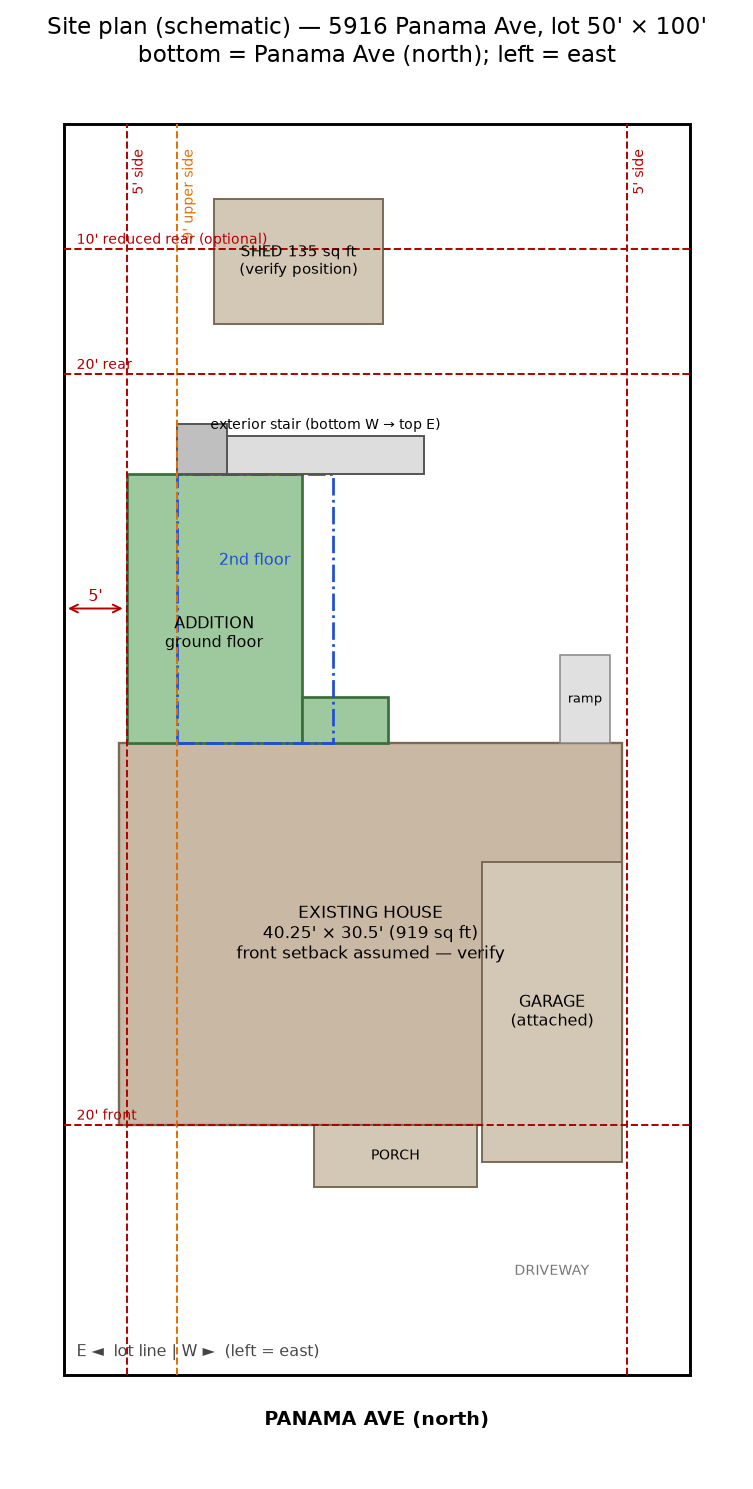
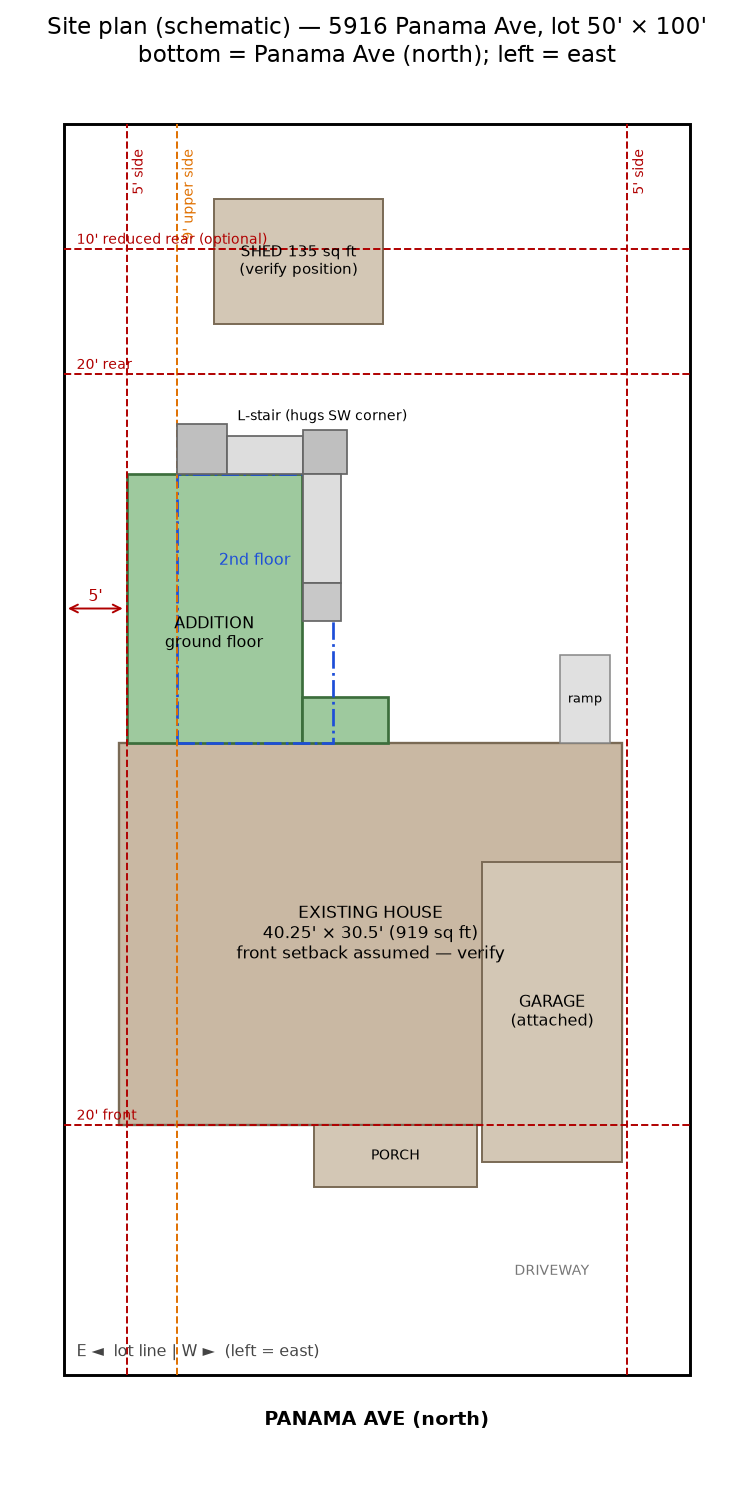
Fold exterior stair into L around SW corner to clear the yard

Changed region(s): [[0.2749, 0.278, 0.5803, 0.4325]]

diff --git a/design/generate_plans.py b/design/generate_plans.py
@@ -130,6 +130,41 @@ def base_axes(title):
     return fig, ax
 
 
+def stair_geom():
+    """L-stair geometry in plan-local inches (x west of the addition's east
+    face, y south of the house rear wall). Rectangles are (x0, y0, w, h)."""
+    st = P["stair"]
+    D = P["first_floor"]["main_block_ext_depth"]
+    off = P["second_floor"]["east_face_offset_from_ground_east_face"]
+    risers = math.ceil(st["total_rise"] / st["riser_max"])
+    riser = st["total_rise"] / risers
+    up_r = st["upper_flight_risers"]
+    lo_r = risers - up_r
+    w, land, cland, tread = st["width"], st["top_landing"], st["corner_landing"], st["tread_run"]
+
+    up_x0 = off + land
+    up_len = (up_r - 1) * tread
+    lo_len = (lo_r - 1) * tread
+    cx = up_x0 + up_len                      # corner landing east face
+    return {
+        "risers": risers, "riser": riser, "up_r": up_r, "lo_r": lo_r,
+        "tread": tread, "width": w,
+        "top_landing": (off, D, land, land),
+        "upper": (up_x0, D, up_len, w),
+        "corner": (cx, D, cland, cland),
+        "lower": (cx, D - lo_len, w, lo_len),
+        "pad": (cx, D - lo_len - 36, w, 36),
+        "corner_height": st["total_rise"] - up_r * riser,
+    }
+
+
+def draw_stair_rect(ax, rect, color="#e8e8e8", scale=1.0, dx=0.0, dy=0.0):
+    x0, y0, w, h = [v * scale for v in rect]
+    ax.add_patch(Rectangle((x0 + dx, y0 + dy), w, h, facecolor=color,
+                           edgecolor="#666666", lw=0.9, zorder=2))
+    return x0 + dx, y0 + dy, w, h
+
+
 # ----------------------------------------------------------------------------
 # First floor
 # ----------------------------------------------------------------------------
@@ -345,29 +380,39 @@ def second_floor():
     fW = f["main_block_ext_width"]
     dim_h(ax, fW, x0 + W, -16, label=f"{ft_in(x0 + W - fW)} cantilever")
 
-    # exterior stair + landing along south wall
-    land = st["top_landing"]
-    treads = math.ceil(st["total_rise"] / st["riser_max"]) - 1
-    run = treads * st["tread_run"]
-    ly = D
-    ax.add_patch(Rectangle((x0, ly), land, land, facecolor="#d9d9d9",
-                           edgecolor="#666666", lw=1.0, zorder=2))
-    ax.text(x0 + land / 2, ly + land / 2, "LANDING\n4'×4'", ha="center",
-            va="center", fontsize=7)
-    sx = x0 + land
-    ax.add_patch(Rectangle((sx, ly), run, st["width"], facecolor="#e8e8e8",
-                           edgecolor="#666666", lw=1.0, zorder=2))
-    for i in range(1, treads):
-        tx = sx + i * st["tread_run"]
-        ax.plot([tx, tx], [ly, ly + st["width"]], color="#999999", lw=0.5)
-    ax.add_patch(FancyArrow(sx + run - 20, ly + st["width"] / 2, -(run - 45), 0,
-                            width=0.6, head_width=6, head_length=10, color="#444444"))
-    ax.text(sx + run / 2, ly + st["width"] + 6,
-            f"exterior stair: {treads + 1} risers @ {st['total_rise'] / (treads + 1):.2f}\", "
-            f"{treads} treads @ {st['tread_run']}\" — rises to the EAST (left)",
+    # L-shaped exterior stair wrapping the SW corner
+    g = stair_geom()
+    tl = draw_stair_rect(ax, g["top_landing"], color="#d9d9d9")
+    ax.text(tl[0] + tl[2] / 2, tl[1] + tl[3] / 2, "LANDING\n4'×4'", ha="center",
+            va="center", fontsize=7, zorder=5)
+    ux, uy, uw, uh = draw_stair_rect(ax, g["upper"])
+    for i in range(1, g["up_r"] - 1):
+        ax.plot([ux + i * g["tread"], ux + i * g["tread"]], [uy, uy + uh],
+                color="#999999", lw=0.5, zorder=3)
+    ax.add_patch(FancyArrow(ux + uw - 14, uy + uh / 2, -(uw - 28), 0,
+                            width=0.5, head_width=5, head_length=8, color="#444444",
+                            zorder=4))
+    cx, cy, cw, ch = draw_stair_rect(ax, g["corner"], color="#d0d0d0")
+    ax.text(cx + cw / 2, cy + ch / 2, "CORNER\n42\"×42\"", ha="center",
+            va="center", fontsize=6.5, zorder=5)
+    lx, ly, lw, lh = draw_stair_rect(ax, g["lower"])
+    for i in range(1, g["lo_r"] - 1):
+        ax.plot([lx, lx + lw], [ly + lh - i * g["tread"], ly + lh - i * g["tread"]],
+                color="#999999", lw=0.5, zorder=3)
+    ax.add_patch(FancyArrow(lx + lw / 2, ly + 14, 0, lh - 28,
+                            width=0.5, head_width=5, head_length=8, color="#444444",
+                            zorder=4))
+    px, py, pw, ph = draw_stair_rect(ax, g["pad"], color="#c8c8c8")
+    ax.text(px + pw / 2 + 18, py + ph / 2, "BOTTOM ↑ UP", ha="left", va="center",
+            fontsize=6.5, color="#555555")
+    ax.text((ux + cx + cw) / 2, cy + ch + 8,
+            f"L-stair: {g['risers']} risers @ {g['riser']:.2f}\" | "
+            f"upper {g['up_r']} along south, lower {g['lo_r']} along west\n"
+            f"(lower flight partly under 2'-6\" cantilever; yard stays clear)",
             ha="center", fontsize=7.5)
 
     # dimensions
+    land = st["top_landing"]
     dim_h(ax, x0, x0 + W, D + land + 14, offset=22)
     dim_v(ax, 0, D, x0 - 14, offset=-24, label=ft_in(D))
     dim_v(ax, 0, EXT + bathd + INT / 2, x0 - 14, offset=-10,
@@ -375,7 +420,7 @@ def second_floor():
     dim_h(ax, 0, x0, -16, label="4'-0\" offset")
 
     # setback annotation (above the building, clear of dimension lines)
-    sy = D + land + 34
+    sy = D + max(land, g["corner"][3]) + 34
     ax.annotate("", xy=(-108 + off, sy), xytext=(x0, sy),
                 arrowprops=dict(arrowstyle="<->", color="#b00000", lw=1.2))
     ax.text(x0 - 54, sy + 6, "9'-0\" upper-story side setback",
@@ -384,7 +429,7 @@ def second_floor():
             linestyle="--")
 
     compass(ax, off - 108, -70)
-    ax.set_xlim(off - 150, x0 + land + run + 40)
+    ax.set_xlim(off - 150, max(x0 + W, cx + cw) + 50)
     ax.set_ylim(-120, sy + 50)
     fig.savefig(os.path.join(HERE, "second-floor-plan.png"), dpi=140, bbox_inches="tight")
     plt.close(fig)
@@ -392,9 +437,12 @@ def second_floor():
     return {
         "plate_sqft": W * D / 144.0,
         "interior_sqft": iw * idp / 144.0,
-        "stair_run_in": run,
-        "treads": treads,
-        "riser_in": st["total_rise"] / (treads + 1),
+        "stair_run_in": g["upper"][2] + g["lower"][3],
+        "treads": g["risers"] - 1,
+        "riser_in": g["riser"],
+        "up_r": g["up_r"],
+        "lo_r": g["lo_r"],
+        "yard_projection_in": max(land, g["corner"][3]),
     }
 
 
@@ -490,17 +538,15 @@ def site_plan():
     ax.text(sx + sw2 / 2, ay + ad / 2 + 3.5, "2nd floor", ha="center",
             fontsize=8, color="#1d4ed8")
 
-    # exterior stair along south wall of addition
-    land = st["top_landing"] / 12.0
-    treads = math.ceil(st["total_rise"] / st["riser_max"]) - 1
-    run = treads * st["tread_run"] / 12.0
-    stw = st["width"] / 12.0
-    ax.add_patch(Rectangle((e_uf, ay + ad), land, land, facecolor="#bfbfbf",
-                           edgecolor="#555555"))
-    ax.add_patch(Rectangle((e_uf + land, ay + ad), run, stw, facecolor="#dddddd",
-                           edgecolor="#555555"))
-    ax.text(e_uf + land + run / 2, ay + ad + stw + 0.6,
-            "exterior stair (bottom W → top E)", fontsize=7, ha="center")
+    # L-shaped exterior stair wrapping the SW corner of the addition
+    g = stair_geom()
+    # stair_geom is in inches relative to addition east face / house rear wall;
+    # site plan uses feet with origin at the lot's east/north corner.
+    for key, color in [("top_landing", "#bfbfbf"), ("upper", "#dddddd"),
+                       ("corner", "#bfbfbf"), ("lower", "#dddddd"), ("pad", "#c8c8c8")]:
+        draw_stair_rect(ax, g[key], color=color, scale=1 / 12.0, dx=e_gf, dy=ay)
+    ax.text(e_gf + g["corner"][0] / 12.0 + 1.5, ay + ad + g["corner"][3] / 12.0 + 0.8,
+            "L-stair (hugs SW corner)", fontsize=7, ha="center")
 
     ax.annotate("", xy=(0, ay + ad / 2), xytext=(e_gf, ay + ad / 2),
                 arrowprops=dict(arrowstyle="<->", color="#b00000", lw=1.0))
@@ -512,8 +558,10 @@ def site_plan():
     fig.savefig(os.path.join(HERE, "site-plan.png"), dpi=140, bbox_inches="tight")
     plt.close(fig)
 
+    proj = max(g["top_landing"][3], g["corner"][3]) / 12.0
     return {"addition_rear_extent_ft": ay + ad,
-            "rear_yard_remaining_ft": ld - (ay + ad)}
+            "rear_yard_remaining_ft": ld - (ay + ad),
+            "stair_yard_projection_ft": proj}
 
 
 # ----------------------------------------------------------------------------
@@ -537,13 +585,14 @@ def south_elevation():
     pitch = lv["roof_pitch_in_12"]
     ridge = plate2 + 10 + (W2 / 2) * pitch / 12.0
 
-    treads = math.ceil(st["total_rise"] / st["riser_max"]) - 1
-    risers = treads + 1
-    riser_h = st["total_rise"] / risers
+    g = stair_geom()
+    riser_h = g["riser"]
+    run = g["tread"]
 
     fig, ax = plt.subplots(figsize=(12, 8))
     ax.set_title("South elevation (from backyard, looking north) — east on RIGHT\n"
-                 "exterior stair rises west → east to second-floor entry", fontsize=12)
+                 "L-stair: upper flight along south wall; lower flight turns north at SW corner",
+                 fontsize=12)
     ax.set_aspect("equal")
     ax.axis("off")
 
@@ -553,7 +602,7 @@ def south_elevation():
         return -x
 
     # ground line
-    ax.plot([xd(W1 + 140), xd(-90)], [0, 0], color="#553311", lw=2)
+    ax.plot([xd(W1 + 80), xd(-90)], [0, 0], color="#553311", lw=2)
     ax.text(xd(-88), -14, "grade", fontsize=8, color="#553311")
 
     # first floor mass
@@ -589,35 +638,51 @@ def south_elevation():
     ax.text(xd(W1 / 2 - off / 2), ff + 20, "bedroom egress", ha="center",
             fontsize=7, color="#4a6172")
 
-    # stair profile: bottom at west (left), rising to east (right)
-    run = st["tread_run"]
-    x_top = off + st["top_landing"]         # plan-x where stair leaves the landing
-    pts_x, pts_y = [], []
-    for i in range(treads + 1):
-        x_plan = x_top + (treads - i) * run
-        pts_x.append(xd(x_plan))
-        pts_y.append((i) * riser_h)
-    # draw steps
-    for i in range(treads):
-        x0, y0 = pts_x[i], pts_y[i]
-        ax.plot([x0, x0], [y0, y0 + riser_h], color="#333333", lw=1.2)
-        ax.plot([x0, x0 + run], [y0 + riser_h, y0 + riser_h], color="#333333", lw=1.2)
+    # Upper flight in profile (visible on the south face), rising east to the door
+    x_top = off + st["top_landing"]
+    up_treads = g["up_r"] - 1
+    for i in range(up_treads):
+        # i=0 is the bottom of the upper flight (at corner landing height)
+        x_plan = x_top + (up_treads - 1 - i) * run
+        y0 = g["corner_height"] + i * riser_h
+        ax.plot([xd(x_plan + run), xd(x_plan + run)], [y0, y0 + riser_h],
+                color="#333333", lw=1.2)
+        ax.plot([xd(x_plan + run), xd(x_plan)], [y0 + riser_h, y0 + riser_h],
+                color="#333333", lw=1.2)
     # top landing
     ax.plot([xd(x_top), xd(off)], [st["total_rise"], st["total_rise"]],
             color="#333333", lw=2.0)
-    # guard
-    ax.plot([pts_x[0], pts_x[-1]], [42, st["total_rise"] + 42], color="#777777", lw=1)
     ax.plot([xd(x_top), xd(off)], [st["total_rise"] + 42, st["total_rise"] + 42],
             color="#777777", lw=1)
-    ax.text(pts_x[len(pts_x) // 2], st["total_rise"] / 2 - 30,
-            f"{risers} risers @ {riser_h:.2f}\" | {treads} treads @ {run}\"\n"
-            f"guard 42\", handrail 34–38\"", fontsize=8, ha="center")
+    # upper-flight guard
+    ax.plot([xd(x_top + up_treads * run), xd(x_top)],
+            [g["corner_height"] + 42, st["total_rise"] + 42], color="#777777", lw=1)
+
+    # Corner landing (end view at west) + lower flight going away from the viewer
+    cx = g["corner"][0]
+    ax.add_patch(Rectangle((xd(cx + g["corner"][2]), g["corner_height"] - 4),
+                           g["corner"][2], 8, facecolor="#bbbbbb",
+                           edgecolor="#333333", lw=1.0, zorder=3))
+    ax.plot([xd(cx + g["corner"][2]), xd(cx + g["corner"][2])],
+            [g["corner_height"], g["corner_height"] + 42], color="#777777", lw=1)
+    # dashed outline of the lower flight descending north (into the page)
+    ax.add_patch(Rectangle((xd(cx + g["width"] + 8), 0), g["width"] + 8,
+                           g["corner_height"], fill=False, edgecolor="#666666",
+                           lw=1.0, linestyle="--", zorder=2))
+    ax.text(xd(cx + g["width"] / 2), g["corner_height"] / 2,
+            f"lower flight\n{g['lo_r']} risers\n(turns north)",
+            ha="center", va="center", fontsize=7, color="#555555")
+
+    ax.text(xd(off + W2 / 2), -22,
+            f"L-stair: {g['risers']} risers @ {riser_h:.2f}\" | upper {g['up_r']} south + "
+            f"lower {g['lo_r']} west | guard 42\", handrail 34–38\"",
+            fontsize=8, ha="center")
 
     ax.text(xd(0) + 30, 10, "E →", fontsize=10, weight="bold")
-    ax.text(pts_x[0] - 55, 10, "← W", fontsize=10, weight="bold")
+    ax.text(xd(W1) - 30, 10, "← W", fontsize=10, weight="bold")
 
-    ax.set_xlim(pts_x[0] - 90, xd(0) + 80)
-    ax.set_ylim(-30, ridge + 40)
+    ax.set_xlim(xd(W1 + 90), xd(0) + 80)
+    ax.set_ylim(-40, ridge + 40)
     fig.savefig(os.path.join(HERE, "south-elevation.png"), dpi=140, bbox_inches="tight")
     plt.close(fig)
 
@@ -636,8 +701,9 @@ if __name__ == "__main__":
     print(f"Second-floor plate:    {a2['plate_sqft']:.0f} sq ft "
           f"(interior {a2['interior_sqft']:.0f})")
     print(f"New gross floor area:  {gross:.0f} sq ft")
-    print(f"Stair: {a2['treads'] + 1} risers @ {a2['riser_in']:.2f}\", "
-          f"run {a2['stair_run_in'] / 12:.1f} ft")
+    print(f"Stair (L): {a2['treads'] + 1} risers @ {a2['riser_in']:.2f}\" — "
+          f"upper {a2['up_r']} south + lower {a2['lo_r']} west; "
+          f"yard projection {a2['yard_projection_in'] / 12:.1f} ft")
     print(f"Addition rear extent:  {a3['addition_rear_extent_ft']:.1f} ft from front PL; "
           f"rear yard remaining {a3['rear_yard_remaining_ft']:.1f} ft (schematic)")
     print(f"Second finish floor:   {a4['second_ff_in'] / 12:.2f} ft; "
